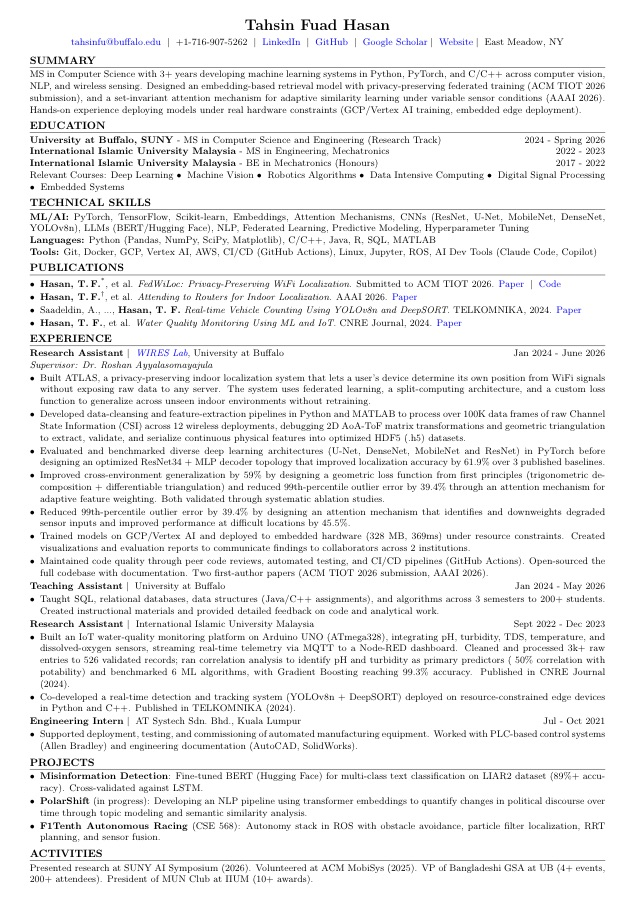
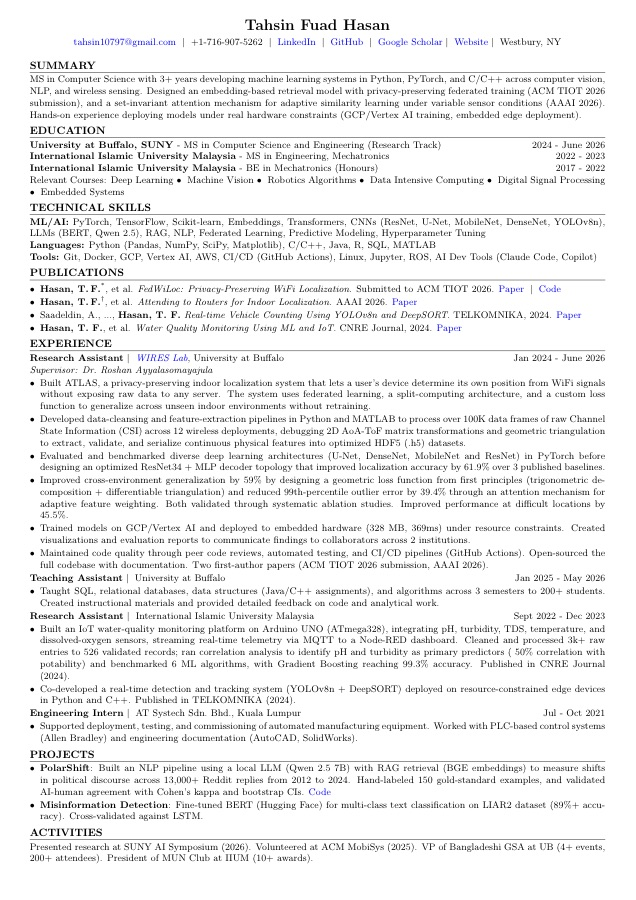
Update resume, PolarShift card, contact email, and TA dates

Changed region(s): [[0.0299, 0.0311, 0.956, 0.9956]]

diff --git a/index.html b/index.html
@@ -163,6 +163,8 @@ section { padding: 4rem 0; }
 .mini-card:hover { border-color: var(--accent); transform: translateY(-2px); }
 .mini-card h4 { font-size: 0.9rem; font-weight: 600; margin-bottom: 0.3rem; }
 .mini-card p { font-size: 0.8rem; color: var(--text-dim); line-height: 1.5; }
+.mini-link { display: inline-block; margin-top: 0.6rem; font-size: 0.78rem; color: var(--link); border-bottom: 1px solid var(--border); padding-bottom: 1px; }
+.mini-link:hover { color: var(--accent); border-color: var(--accent); }
 
 /* EXPERIENCE */
 .exp-list { display: flex; flex-direction: column; }
@@ -259,7 +261,7 @@ footer p { font-size: 0.8rem; color: var(--text-dim); }
   <p class="intro"><strong class="role">ML and Data Science Engineer.</strong> Fundamentals in Mechatronics Engineering, then a pivot into Computer Science. Always intrigued in using data to make systems work better, sometimes through an innovative breakthrough, usually through the kind of incremental fix that nobody notices until it scales. </p>
   <p class="sub">Based in New York City, NY. </p>
   <div class="hero-links">
-    <a href="mailto:tahsinfu@buffalo.edu">Email</a>
+    <a href="mailto:tahsin10797@gmail.com">Email</a>
     <a href="https://www.linkedin.com/in/tahsinfuad/">LinkedIn</a>
     <a href="https://github.com/TFH1007">GitHub</a>
     <a href="https://scholar.google.com/citations?user=ciSFzloAAAAJ&hl=en">Scholar</a>
@@ -325,7 +327,8 @@ footer p { font-size: 0.8rem; color: var(--text-dim); }
   <div class="mini-projects">
     <div class="mini-card">
       <h4>PolarShift</h4>
-      <p>NLP pipeline measuring how political discourse shifts from persuasion-oriented language toward identity-signalling framing. BERT embeddings, topic modeling, semantic similarity. In progress.</p>
+      <p>Pilot study of US political subreddits, 2012–2024, labeled by a local LLM (Qwen2.5-7B) with RAG over hand-labeled examples and validated with Cohen's kappa. Finding: political Reddit didn't get more hostile, it got briefer.</p>
+      <a class="mini-link" href="https://github.com/TFH1007/polarshift" target="_blank" rel="noopener">Code ↗</a>
     </div>
     <div class="mini-card">
       <h4>Misinformation Detection</h4>
@@ -363,7 +366,7 @@ footer p { font-size: 0.8rem; color: var(--text-dim); }
       </div>
     </div>
     <div class="exp-item">
-      <div class="exp-date">Jan 2024 — May 2026</div>
+      <div class="exp-date">Jan 2025 — May 2026</div>
       <div class="exp-content">
         <h3>Teaching Assistant</h3>
         <div class="exp-org">University at Buffalo</div>
@@ -460,7 +463,7 @@ footer p { font-size: 0.8rem; color: var(--text-dim); }
 
 </div>
 
-<footer><p>Tahsin Fuad Hasan · tahsinfu@buffalo.edu · New York</p></footer>
+<footer><p>Tahsin Fuad Hasan · tahsin10797@gmail.com · New York</p></footer>
 
 <script>
 document.documentElement.classList.add('js');
